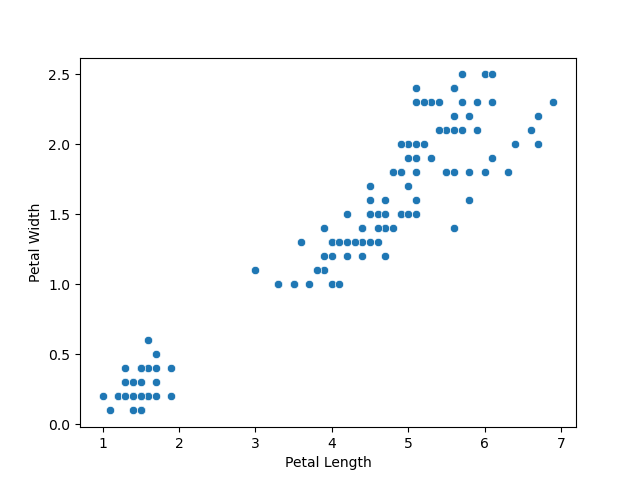
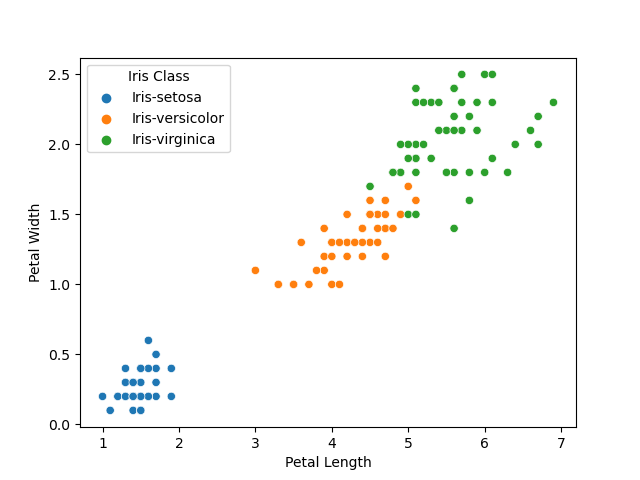
scatterplots by colour

diff --git a/analysis.py b/analysis.py
@@ -167,12 +167,12 @@ h = df["Petal Width"]
 
 
 
-sns.scatterplot(data=df, x="Sepal Length", y="Sepal Width")
+sns.scatterplot(data=df, x="Sepal Length", y="Sepal Width", hue="Iris Class")
 plt.savefig("Scatterplot_Sepal.png")
 #plt.show()
 plt.clf()
 
-sns.scatterplot(data=df, x="Petal Length", y="Petal Width")
+sns.scatterplot(data=df, x="Petal Length", y="Petal Width", hue="Iris Class")
 plt.savefig("Scatterplot_Petal.png")
 #plt.show()
 plt.clf()

diff --git a/README.md b/README.md
@@ -39,7 +39,8 @@ The groupby() and corr() functions were very useful in outputting the correlatio
 I used matplotlib and Seaborn to help visualise the data in the form of histograms for the individual variables (width, height..)
 and the scatterplot for each pair of variables (sepal width & height, and petal width and height.
 
-
+Finally I wrote my analysis and observations to a text file called datafile.txt using using the open() function to create the file
+and the write() to write my data analysis to it.
 
 
 
@@ -47,14 +48,14 @@ Resources:
 https://www.w3schools.com/python/
 I found this website terrific for general learning of python syntax to supplement my GMIT lectures.
 https://www.w3schools.com/python/python_file_write.asp
-This section of w3schools helped a lot with the syntax of how to write to a file. GMIT
+This section of w3schools helped a lot with the syntax of how to write to a file. 
 https://www.w3schools.com/python/pandas/default.asp
 This module in W3 schools was a very helpful resource on how to use pandas, read and write to text files and manipulate dataframes.
 The extra pandas lecture on the GMIT course was a great help trying to get to grips with pandas and its features.
 to be continued......
 https://www.angela1c.com/projects/iris_project/investigating-the-iris-dataset/
-this was a helpful resource when it came to the describe() function of dataframes in Panda and helped me to cut down
-my lines of code and make it more organised in order to show the main statistics for each variable.
+This resource that I came across while searching the web helped me with the  describe() function of dataframes in Panda and helped me to cut down
+my previous lines of code and make it more organised in order to show the main statistics for each variable.
 
 Some good resources for using Seaborn which i hadn't really used to date.
 https://seaborn.pydata.org/introduction.html
